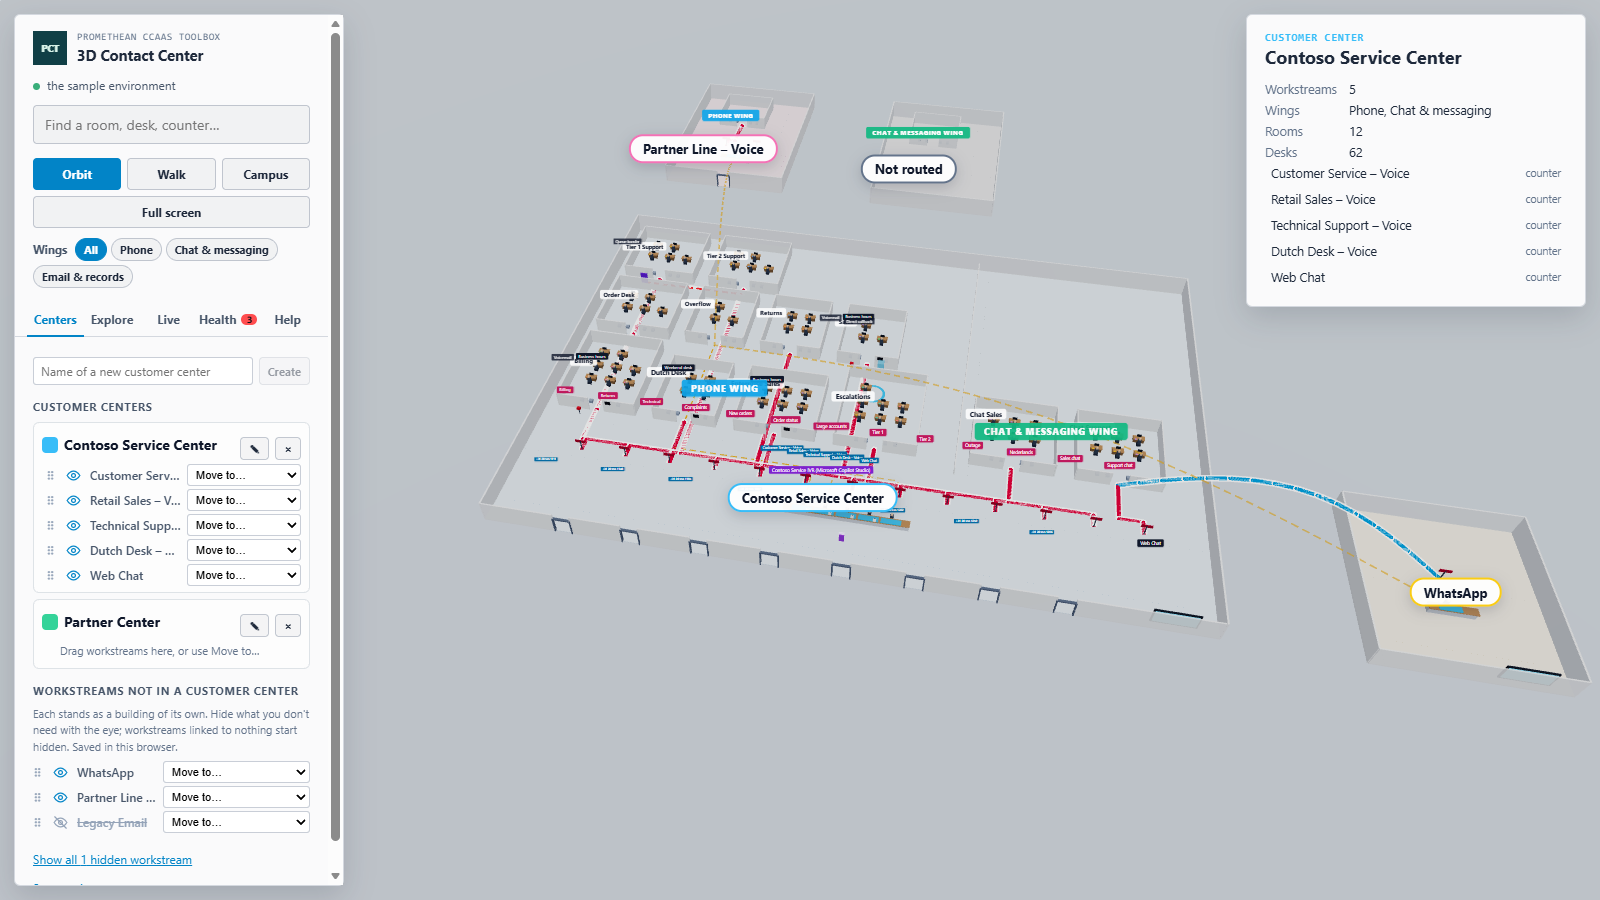
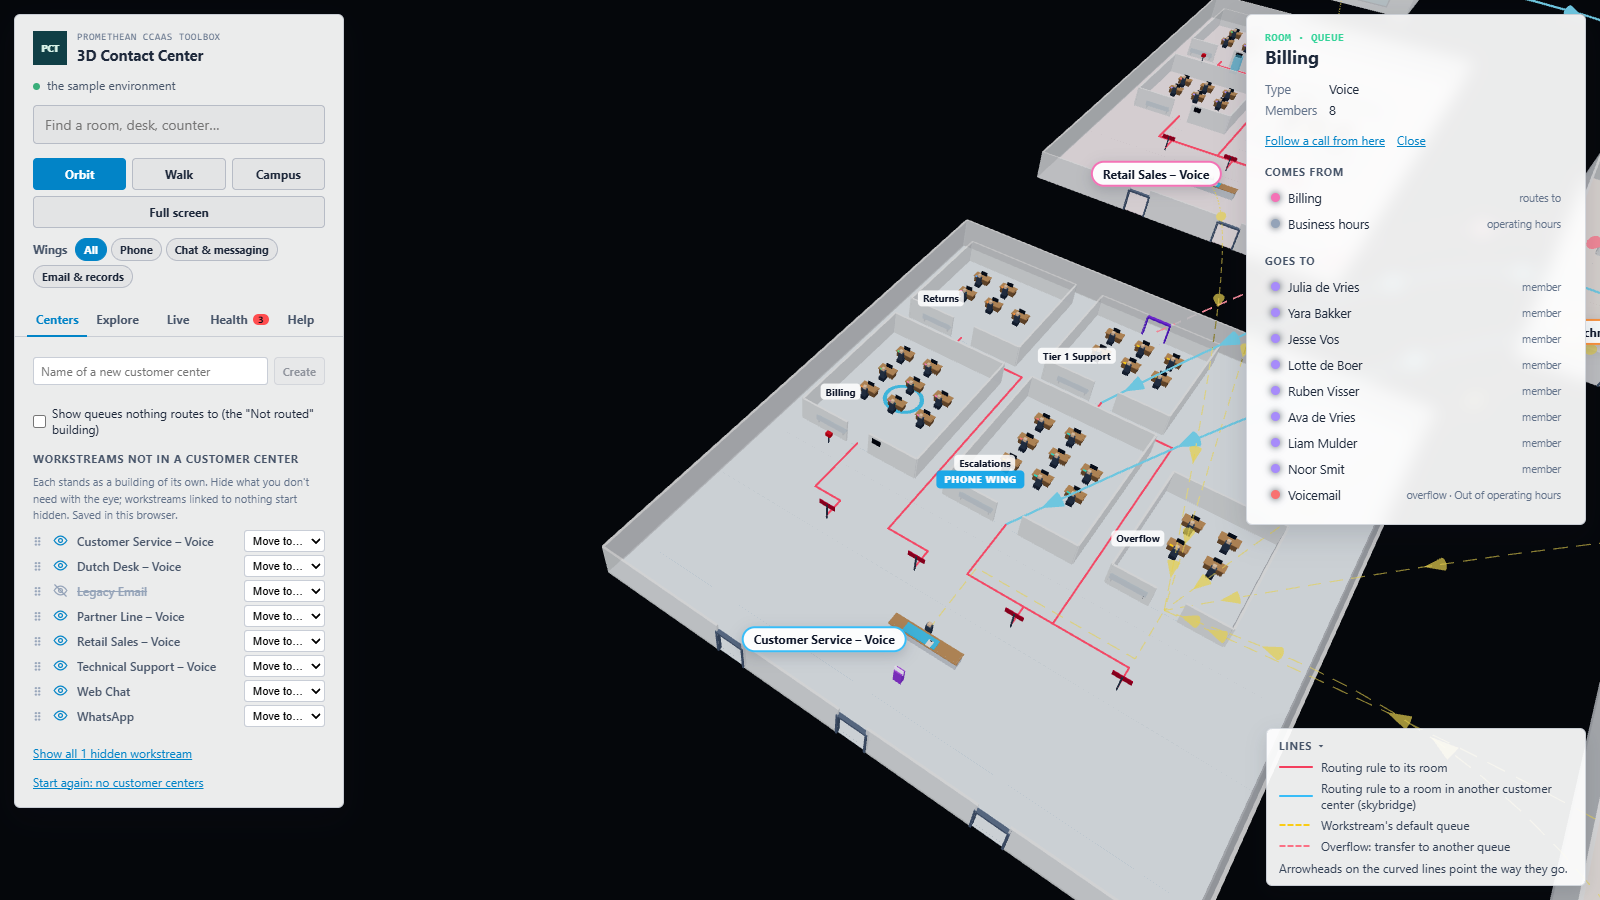
3D Contact Center: no ground, a black background and brighter lines

diff --git a/tools/contact-center-3d/src/CampusScene.tsx b/tools/contact-center-3d/src/CampusScene.tsx
@@ -14,8 +14,8 @@ import { Area, Fixture, FixtureKind, Path, PathKind, Plan, Vec3, Wall, Wing, WIN
 // The campus in 3D: open-roofed buildings seen from above, like a doll's house. Floors, walls, desks
 // and people are instanced boxes, so a large center stays smooth.
 
-export const SKY = "#dfe7ef";
-const GROUND = "#cfd9e4";
+// Near black behind the buildings, so they stand out.
+export const SKY = "#05070b";
 const WALL = "#f8fafc";
 const WOOD = "#b98b5e";
 const SCREEN = "#1e293b";
@@ -27,10 +27,10 @@ export const SEVERITY_COLORS: Record<Severity, string> = { problem: "#ef4444", w
 const AREA_TINT: Record<Area["kind"], number> = { building: 0.8, entrance: 0.6, lobby: 0.45, corridor: 0.72, wing: 0.72, room: 0.55 };
 // The lines' looks; the page's legend explains them from the same list.
 export const PATH_STYLE: Record<PathKind, { color: string; dashed: boolean; width: number; label: string }> = {
-  route: { color: "#be123c", dashed: false, width: 2, label: "Routing rule to its room" },
-  skybridge: { color: "#0284c7", dashed: false, width: 2.2, label: "Routing rule to a room in another customer center (skybridge)" },
-  default: { color: "#ca8a04", dashed: true, width: 1.2, label: "Workstream's default queue" },
-  transfer: { color: "#dc2626", dashed: true, width: 1.6, label: "Overflow: transfer to another queue" }
+  route: { color: "#f43f5e", dashed: false, width: 2, label: "Routing rule to its room" },
+  skybridge: { color: "#38bdf8", dashed: false, width: 2.2, label: "Routing rule to a room in another customer center (skybridge)" },
+  default: { color: "#facc15", dashed: true, width: 1.2, label: "Workstream's default queue" },
+  transfer: { color: "#fb7185", dashed: true, width: 1.6, label: "Overflow: transfer to another queue" }
 };
 // Labels keep one small size. Inside a building they only show when the camera is this close (metres),
 // so the campus from afar isn't a heap of labels and labels near you stay readable while exploring.
@@ -312,11 +312,6 @@ export function CampusScene({ plan, mode, goal, selected, selectedSpot, wing, sh
       <hemisphereLight args={["#ffffff", "#94a3b8", 0.9]} />
       <directionalLight position={[80, 160, 120]} intensity={1.4} />
       <directionalLight position={[-120, 80, -60]} intensity={0.4} />
-
-      <mesh rotation={[-Math.PI / 2, 0, 0]} position={[plan.bounds.x, -0.05, plan.bounds.z]} raycast={() => null}>
-        <planeGeometry args={[plan.bounds.w + 400, plan.bounds.d + 400]} />
-        <meshStandardMaterial color={GROUND} roughness={1} />
-      </mesh>
 
       <Boxes items={floors} onPick={pick} />
       <Boxes items={walls} color={WALL} opacity={0.92} />

diff --git a/tools/contact-center-3d/css/contactCenter3d.css b/tools/contact-center-3d/css/contactCenter3d.css
@@ -1,13 +1,13 @@
 /* Copyright (c) 2026 Alexander Meijers. SPDX-License-Identifier: MIT */
 
 /* Light: an architectural model on a pale table; the panels float over it. Based on Environment 3D Explorer's stylesheet. */
-:root { font-family: Manrope, "Segoe UI", sans-serif; color: #1e293b; background: #dfe7ef; font-size: 14px; }
+:root { font-family: Manrope, "Segoe UI", sans-serif; color: #1e293b; background: #05070b; font-size: 14px; }
 * { box-sizing: border-box; }
 html, body, #root { height: 100%; margin: 0; overflow: hidden; }
 button, input { font: inherit; color: inherit; }
 button { cursor: pointer; }
 
-.campus { position: relative; width: 100%; height: 100vh; background: #dfe7ef; }
+.campus { position: relative; width: 100%; height: 100vh; background: #05070b; }
 .campus canvas { display: block; outline: none; }
 
 .panel { position: absolute; z-index: 100; top: 14px; max-height: calc(100vh - 28px); overflow-y: auto; padding: 16px 18px; background: rgba(255, 255, 255, .92); border: 1px solid rgba(100, 116, 139, .25); backdrop-filter: blur(8px); border-radius: 6px; box-shadow: 0 10px 30px rgba(15, 23, 42, .15); }
@@ -70,7 +70,7 @@ h3 { margin: 16px 0 6px; font-size: 11px; text-transform: uppercase; letter-spac
 
 .hover-hint { position: absolute; z-index: 100; left: 50%; bottom: 18px; transform: translateX(-50%); display: flex; align-items: center; gap: 8px; padding: 7px 12px; background: rgba(255, 255, 255, .92); border: 1px solid rgba(140, 170, 200, .2); border-radius: 20px; font-size: 12px; pointer-events: none; }
 
-.overlay { position: absolute; z-index: 200; inset: 0; display: grid; place-items: center; background: rgba(223, 231, 239, .8); font-size: 14px; text-align: center; }
+.overlay { position: absolute; z-index: 200; inset: 0; display: grid; place-items: center; background: rgba(5, 7, 11, .75); font-size: 14px; text-align: center; }
 .overlay button { margin-top: 8px; padding: 8px 14px; background: #0284c7; color: #ffffff; border: 0; border-radius: 4px; font-weight: 700; }
 
 /* Labels drawn in the 3D scene. */

diff --git a/tools/contact-center-3d/IMPLEMENTATION_STATUS.md b/tools/contact-center-3d/IMPLEMENTATION_STATUS.md
@@ -45,6 +45,7 @@ First version: the campus, a building per customer center, combine / split / mov
 - **Selecting the desk you click**: an agent with several desks used to fly to their first one. A click now keeps the clicked desk (camera and ring stay there), a room's member links go to that member's desk in the room, and Follow a call from a desk starts at that desk; reached from a room, the ride always goes to the desk in that room.
 - **Labels one small size**, shown by distance (rooms and wings within 150 m, signs 90 m, counters and phone numbers 60 m) instead of scaling with distance: after review, scaled labels became huge while exploring close up. They're placed once and shown or hidden a few times a second, without re-rendering.
 - The **Not routed** building is hidden at first (after review); a checkbox on the Centers tab, or `unrouted=1`, shows it.
+- **Black background, no ground** (after review): the buildings float on near black; the ground plane is gone and the line colours are brighter so they read on the dark.
 - A **Lines** legend explains the four styles, from the same list the scene draws with.
 
 ## Next ideas
